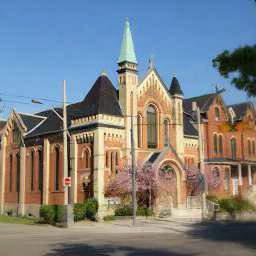
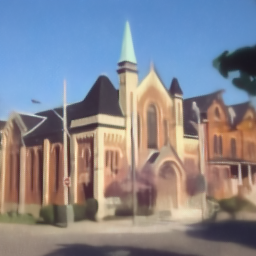
Added figure for tunning

diff --git a/figure-generator.py b/figure-generator.py
@@ -8,7 +8,7 @@ from glob2 import glob
 from natsort import natsorted
 from pytorch_diffusion import Diffusion
 
-from constants import CLEAN_DIR, SIZE, CHANNEL_NUM, LEVELS, NOISY_DIR, GAUSSIAN_NOISE, DEVICE, MODEL
+from constants import CLEAN_DIR, SIZE, CHANNEL_NUM, LEVELS, NOISY_DIR, GAUSSIAN_NOISE, DEVICE, MODEL, DDPM_DENOISED_DIR
 from util import calc_psnr_hvsm, calc_ssim
 
 image_num = 5
@@ -39,56 +39,129 @@ diffusion = Diffusion.from_pretrained(MODEL)
 
 
 # Image for PSNR and SSIM on each step
-clean_image_paths = natsorted(glob(os.path.join(CLEAN_DIR, '*.jpg')))
-image_num = len(clean_image_paths)
-clean_images = np.zeros((image_num, SIZE, SIZE, CHANNEL_NUM))
+# clean_image_paths = natsorted(glob(os.path.join(CLEAN_DIR, '*.jpg')))
+# image_num = len(clean_image_paths)
+# clean_images = np.zeros((image_num, SIZE, SIZE, CHANNEL_NUM))
+#
+# for i in range(image_num):
+#     clean_images[i] = io.imread(clean_image_paths[i]).astype(float) / 255
+#
+# levels = [0.05, 0.1, 0.2, 0.4]
+# level_to_curr_step = {0.05: 15, 0.1: 33, 0.2: 69, 0.4: 120}
+# psnr_curves = {}
+# ssim_curves = {}
+#
+# for level in levels:
+#     psnr_curves[level] = []
+#     ssim_curves[level] = []
+#     x = np.zeros_like(clean_images)
+#     for i in range(image_num):
+#         x[i] = io.imread(
+#             os.path.join(NOISY_DIR, f"{i}-{round(level, 2)}-{'g' if GAUSSIAN_NOISE else 'p'}.jpg")
+#         ).astype(float) / 255
+#     x = torch.Tensor(x.transpose([0, 3, 1, 2])).to(DEVICE)
+#     curr_step = level_to_curr_step[level]
+#     while curr_step > 0:
+#         x = diffusion.denoise(
+#             image_num,
+#             x=x,
+#             curr_step=curr_step,
+#             n_steps=1
+#         ).cpu().numpy().transpose([0, 2, 3, 1])
+#         # Calculate and update the maximal PSNR
+#         psnr = 0
+#         ssim = 0
+#         for i in range(image_num):
+#             psnr += calc_psnr_hvsm(x[i], clean_images[i])
+#             ssim += calc_ssim(x[i], clean_images[i])
+#         psnr_curves[level].append(psnr / image_num)
+#         ssim_curves[level].append(ssim / image_num)
+#         curr_step -= 1
+#         x = torch.Tensor(x.transpose([0, 3, 1, 2])).to(DEVICE)
+# print(psnr_curves)
+# print(ssim_curves)
+#
+#
+# fig, ax = plt.subplots()
+# for level in levels:
+#     ax.plot(range(level_to_curr_step[level], 0, -1), ssim_curves[level], label=f"sigma={level}")
+#     # ax.plot(range(level_to_curr_step[level], 0, -1), psnr_curves[level], label=f"sigma={level}")
+# ax.invert_xaxis()
+# ax.legend()
+# ax.set_xlabel("Denoising Step Number")
+# ax.set_ylabel("SSIM")
+# ax.grid(True)
+# plt.show()
 
-for i in range(image_num):
-    clean_images[i] = io.imread(clean_image_paths[i]).astype(float) / 255
-
+diffusion = Diffusion.from_pretrained("lsun_church")
+noise_type = 'g'
 levels = [0.05, 0.1, 0.2, 0.4]
 level_to_curr_step = {0.05: 15, 0.1: 33, 0.2: 69, 0.4: 120}
-psnr_curves = {}
-ssim_curves = {}
 
-for level in levels:
-    psnr_curves[level] = []
-    ssim_curves[level] = []
-    x = np.zeros_like(clean_images)
-    for i in range(image_num):
-        x[i] = io.imread(
-            os.path.join(NOISY_DIR, f"{i}-{round(level, 2)}-{'g' if GAUSSIAN_NOISE else 'p'}.jpg")
-        ).astype(float) / 255
-    x = torch.Tensor(x.transpose([0, 3, 1, 2])).to(DEVICE)
-    curr_step = level_to_curr_step[level]
-    while curr_step > 0:
-        x = diffusion.denoise(
-            image_num,
-            x=x,
-            curr_step=curr_step,
-            n_steps=1
-        ).cpu().numpy().transpose([0, 2, 3, 1])
-        # Calculate and update the maximal PSNR
+# for level in levels:
+#     psnr = 0
+#     ssim = 0
+#     for img_id in range(8, 11):
+#         clean = io.imread(f"./samples/clean/validation/{img_id}.jpg").astype(float) / 255
+#         noisy_img = io.imread(f"./samples/noisy/validation/{img_id}-{level}-{noise_type}.jpg").astype(float) / 255
+#         denoised = noisy_img
+#         # x = torch.Tensor([noisy_img.transpose([2, 0, 1])]).to(DEVICE)
+#         # curr_step = level_to_curr_step[level]
+#         # denoised = diffusion.denoise(1, x=x, curr_step=curr_step, n_steps=curr_step)[0, ...].cpu().detach().numpy().transpose([1,2,0])
+#         psnr += calc_psnr_hvsm(denoised, clean)
+#         ssim += calc_ssim(denoised, clean)
+#         plt.imsave(f"{DDPM_DENOISED_DIR}/{img_id}-{level}-{noise_type}.png", np.clip(denoised, a_min=0., a_max=1.))
+#     print(psnr / 3)
+#     print(ssim / 3)
+
+# for level in levels:
+#     psnr = 0
+#     ssim = 0
+#     for img_id in range(8, 11):
+#         clean = io.imread(f"./samples/clean/validation/{img_id}.jpg").astype(float) / 255
+#         noisy_img = io.imread(f"./samples/mprnet-denoised/{img_id}-{level}-{noise_type}.png").astype(float) / 255
+#         denoised = noisy_img
+#         # x = torch.Tensor([noisy_img.transpose([2, 0, 1])]).to(DEVICE)
+#         # curr_step = level_to_curr_step[level]
+#         # denoised = diffusion.denoise(1, x=x, curr_step=curr_step, n_steps=curr_step)[0, ...].cpu().detach().numpy().transpose([1,2,0])
+#         psnr += calc_psnr_hvsm(denoised, clean)
+#         ssim += calc_ssim(denoised, clean)
+#         plt.imsave(f"{DDPM_DENOISED_DIR}/{img_id}-{level}-{noise_type}.png", np.clip(denoised, a_min=0., a_max=1.))
+#     print(psnr / 3)
+#     print(ssim / 3)
+
+psnr_result = {0.05:[], 0.1:[], 0.2:[], 0.4:[]}
+ssim_result = {0.05:[], 0.1:[], 0.2:[], 0.4:[]}
+tune_range = range(10, 1001, 10)
+for curr_step in tune_range:
+    for level in levels:
+        print(level, curr_step)
         psnr = 0
         ssim = 0
-        for i in range(image_num):
-            psnr += calc_psnr_hvsm(x[i], clean_images[i])
-            ssim += calc_ssim(x[i], clean_images[i])
-        psnr_curves[level].append(psnr / image_num)
-        ssim_curves[level].append(ssim / image_num)
-        curr_step -= 1
-        x = torch.Tensor(x.transpose([0, 3, 1, 2])).to(DEVICE)
-print(psnr_curves)
-print(ssim_curves)
+        for img_id in range(5):
+            clean = io.imread(f"./samples/clean/{img_id}.jpg").astype(float) / 255
+            noisy_img = io.imread(f"./samples/noisy/{img_id}-{level}-{noise_type}.jpg").astype(float) / 255
+            x = torch.Tensor([noisy_img.transpose([2, 0, 1])]).to(DEVICE)
+            denoised = diffusion.denoise(1, x=x, curr_step=curr_step, n_steps=curr_step)[0, ...].cpu().detach().numpy().transpose([1,2,0])
+            psnr += calc_psnr_hvsm(denoised, clean)
+            ssim += calc_ssim(denoised, clean)
+        psnr_result[level].append(psnr / 5)
+        ssim_result[level].append(ssim / 5)
 
+    fig, ax = plt.subplots()
+    for level in levels:
+        ax.plot(range(10, curr_step+1, 10), psnr_result[level], label=f"sigma={level}")
+    ax.legend()
+    ax.set_xlabel("Starting Step Number")
+    ax.set_ylabel("PSNR-HVS-M (dB)")
+    ax.grid(True)
+    plt.savefig("psnr-curr-tune.png")
 
-fig, ax = plt.subplots()
-for level in levels:
-    ax.plot(range(level_to_curr_step[level], 0, -1), ssim_curves[level], label=f"sigma={level}")
-    # ax.plot(range(level_to_curr_step[level], 0, -1), psnr_curves[level], label=f"sigma={level}")
-ax.invert_xaxis()
-ax.legend()
-ax.set_xlabel("Denoising Step Number")
-ax.set_ylabel("SSIM")
-ax.grid(True)
-plt.show()
+    fig, ax = plt.subplots()
+    for level in levels:
+        ax.plot(range(10, curr_step+1, 10), ssim_result[level], label=f"sigma={level}")
+    ax.legend()
+    ax.set_xlabel("Starting Step Number")
+    ax.set_ylabel("SSIM")
+    ax.grid(True)
+    plt.savefig("ssim-curr-tune.png")

diff --git a/MPRNet/demo.py b/MPRNet/demo.py
@@ -16,7 +16,7 @@ import os
 os.environ['KMP_DUPLICATE_LIB_OK']='True'
 
 parser = argparse.ArgumentParser(description='Demo MPRNet')
-parser.add_argument('--input_dir', default='../samples/noisy/', type=str, help='Input images')
+parser.add_argument('--input_dir', default='../samples/noisy/validation', type=str, help='Input images')
 parser.add_argument('--result_dir', default='../samples/mprnet-denoised/', type=str, help='Directory for results')
 parser.add_argument('--task', default="Denoising", type=str, help='Task to run')
 
